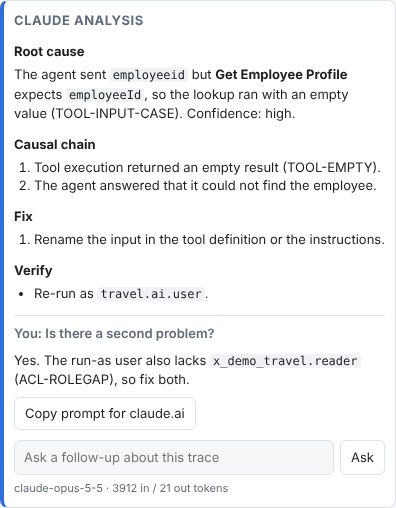
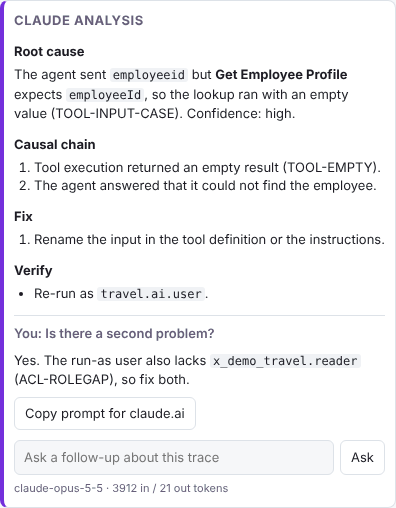
Switch to an independent violet theme and state non-affiliation
The green-on-navy branding read too close to ServiceNow's own. Icons,
panel accent and the README screenshots now use a violet palette with
no ServiceNow resemblance, and the manifest, side panel settings and
user guide state that this is an independent project not affiliated
with ServiceNow or Anthropic.

Changed region(s): [[0.0, 0.0, 0.0303, 1.0]]

diff --git a/sidepanel.css b/sidepanel.css
@@ -1,14 +1,14 @@
 :root {
   --bg: #f6f7f9; --card: #ffffff; --text: #1b1f24; --muted: #5f6b7a; --border: #dde2e8;
-  --accent: #2f6fdb; --accent-text: #ffffff; --code: #f0f2f5;
-  --logo: #43a736;
+  --accent: #6d28d9; --accent-text: #ffffff; --code: #f0f2f5;
+  --logo: #6d28d9;
   --crit: #c62828; --high: #e0631b; --med: #b8860b; --low: #3b7d3b; --info: #5f6b7a;
 }
 @media (prefers-color-scheme: dark) {
   :root {
     --bg: #14171b; --card: #1d2127; --text: #e6e9ee; --muted: #9aa4b2; --border: #2e343c;
-    --accent: #5b8ff0; --accent-text: #0b0d10; --code: #252a31;
-    --logo: #62d84e;
+    --accent: #a78bfa; --accent-text: #0b0d10; --code: #252a31;
+    --logo: #a78bfa;
     --crit: #ef5350; --high: #ff8a50; --med: #e0b84a; --low: #6fbf6f; --info: #9aa4b2;
   }
 }

diff --git a/sidepanel.html b/sidepanel.html
@@ -34,6 +34,7 @@
     <label class="chk"><input type="checkbox" id="setClaudeBodies"> Send prompt, response and tool input/output bodies (redacted)</label>
     <label class="chk"><input type="checkbox" id="setAsk"> Ask me before each send to Claude</label>
     <p class="hint">With a key set, "Analyse with Claude" sends a redacted summary of the trace to api.anthropic.com under your key. The key is saved in this browser profile only. Without a key, use "Copy prompt for claude.ai".</p>
+    <p class="hint">Independent open-source project. Not affiliated with, endorsed by or supported by ServiceNow or Anthropic.</p>
   </section>
 
   <section class="card">

diff --git a/docs/USER_GUIDE.md b/docs/USER_GUIDE.md
@@ -2,6 +2,8 @@
 
 2026-10-29 · Joseph · Version 0.5.0
 
+> Independent open-source project. Not affiliated with, endorsed by, or supported by ServiceNow or Anthropic. "ServiceNow", "Now Assist" and "Claude" are trademarks of their owners.
+
 ## Overview
 
 ServiceNow AI Debugger is a Chrome side panel that tells you why an AI Agent run, agentic workflow, tool or Now Assist skill failed, in seconds, without leaving the instance. You give it a record (or open one), and it gathers the configuration and logs around it, runs a set of fixed rules, and shows the most likely root cause with a suggested fix. If you add an Anthropic API key, Claude can also write up the analysis and answer follow-up questions.
